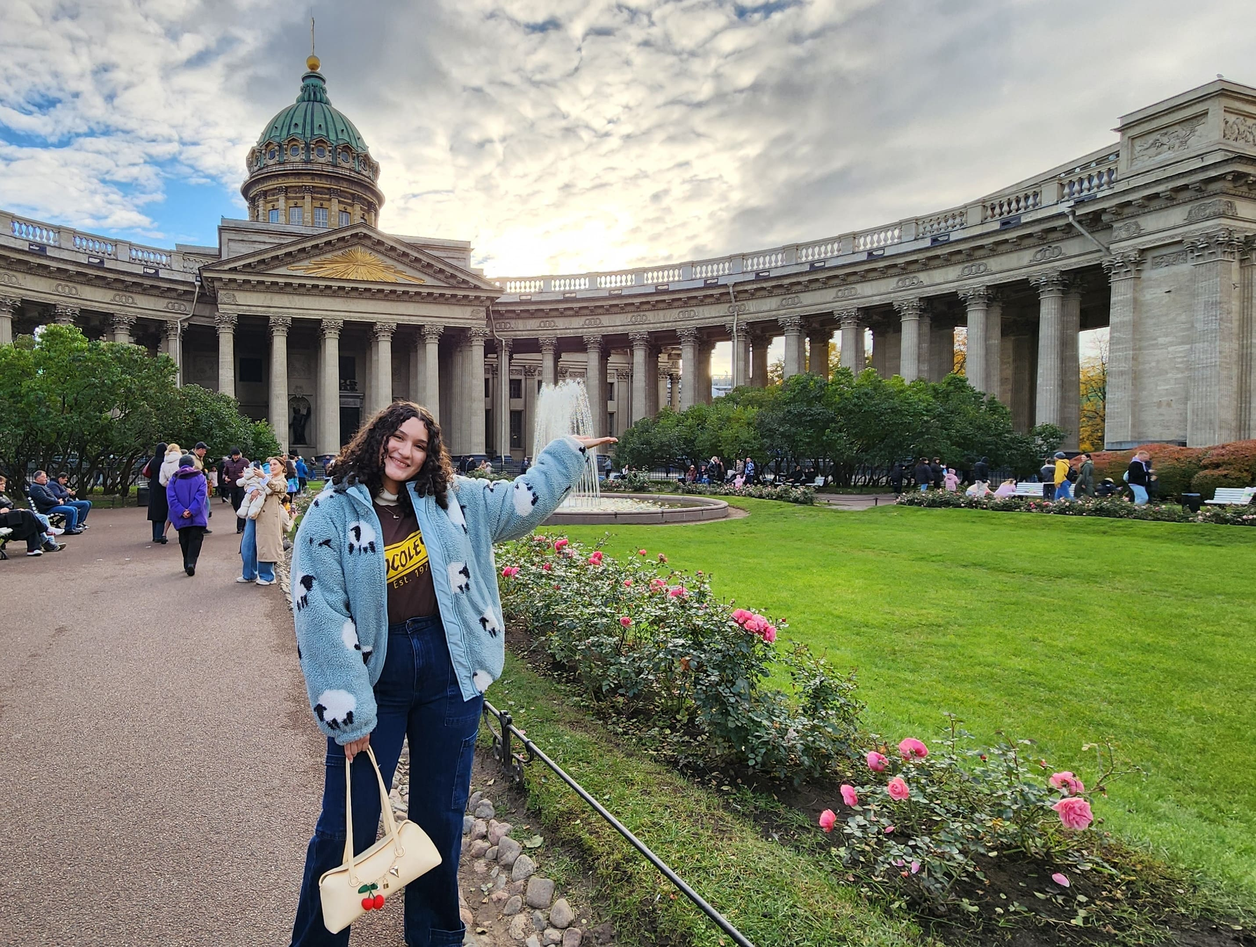
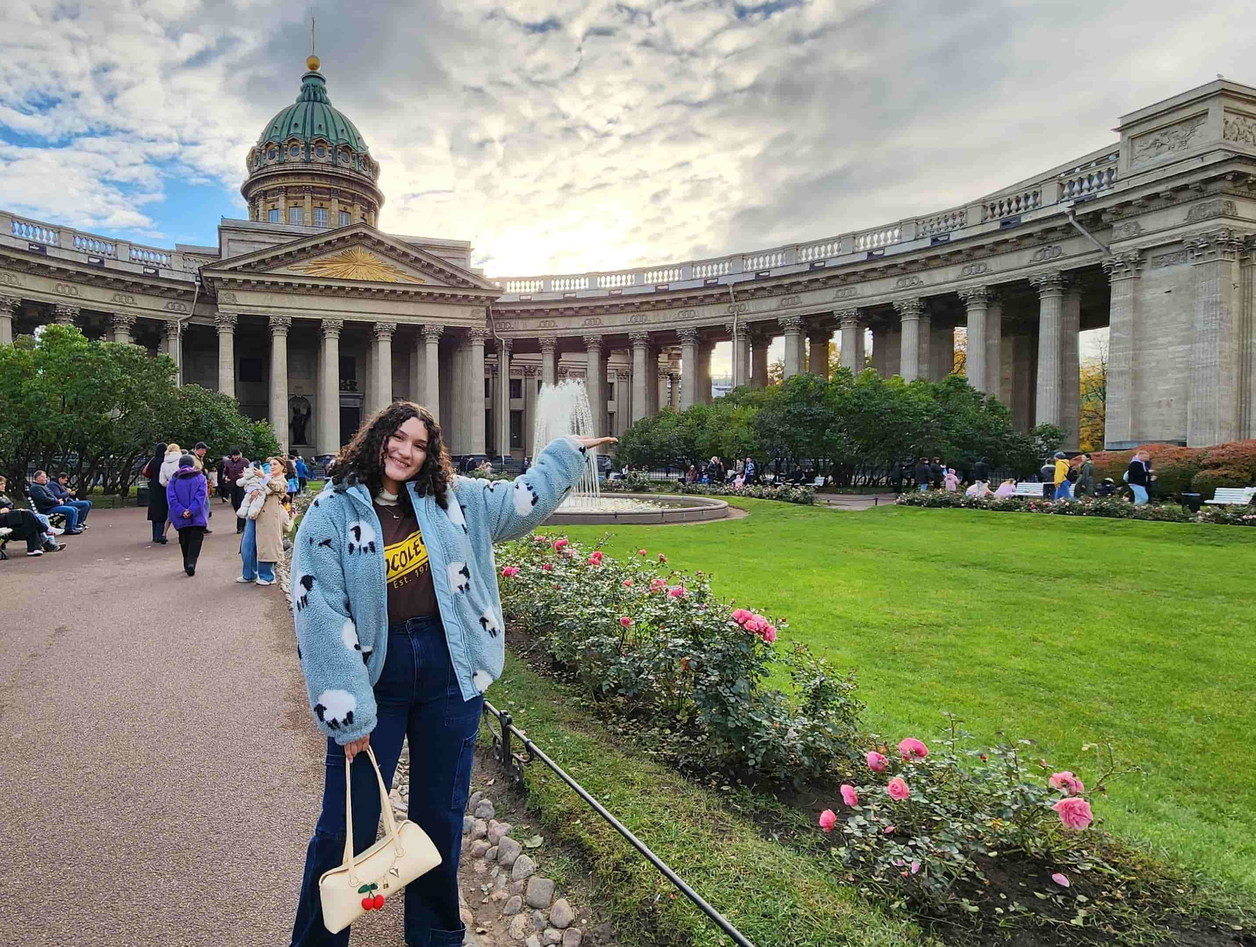
Optimizando

diff --git a/index.html b/index.html
@@ -42,7 +42,7 @@
         body {
             font-family: 'Zen Maru Gothic', sans-serif;
             background-color: #f5f1ed;
-            background-image: url('background.png');
+            background-image: url('background.jpg');
             background-size: cover;
             background-position: center;
             background-attachment: fixed;
